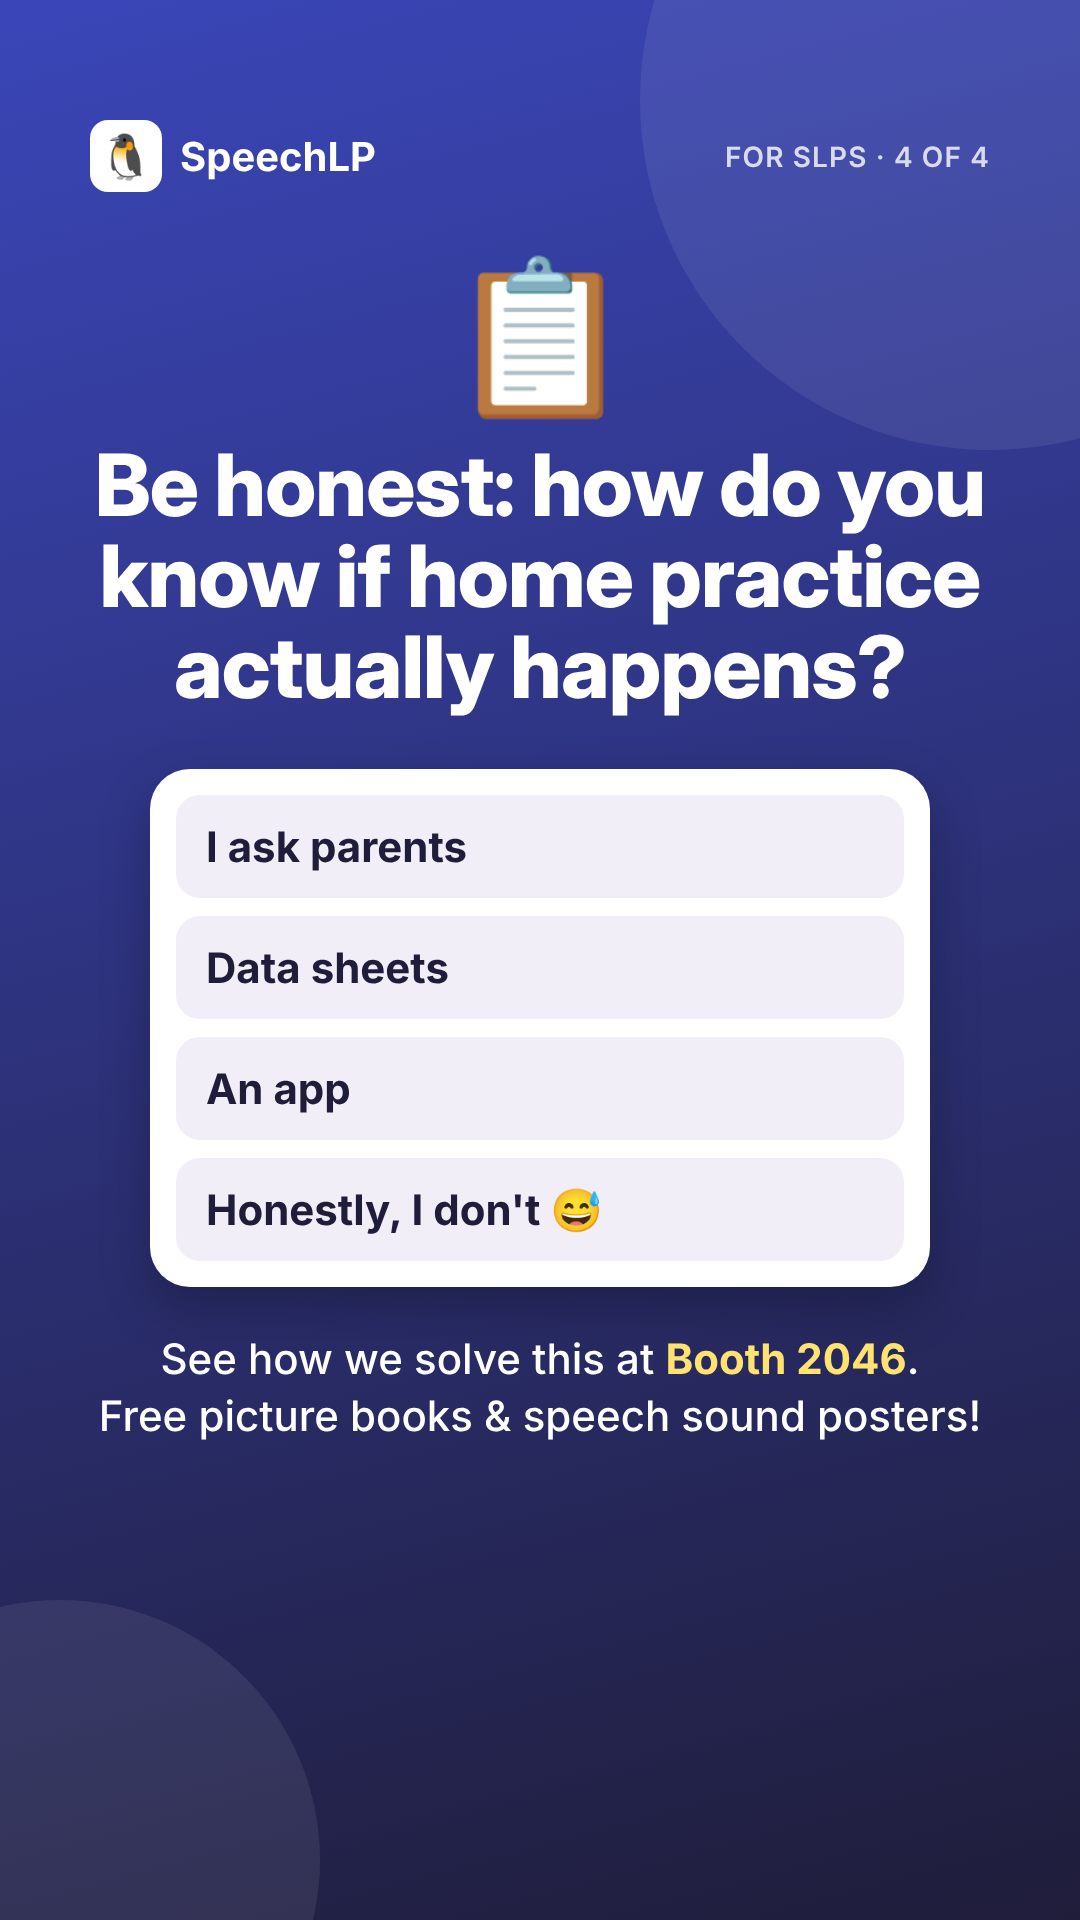
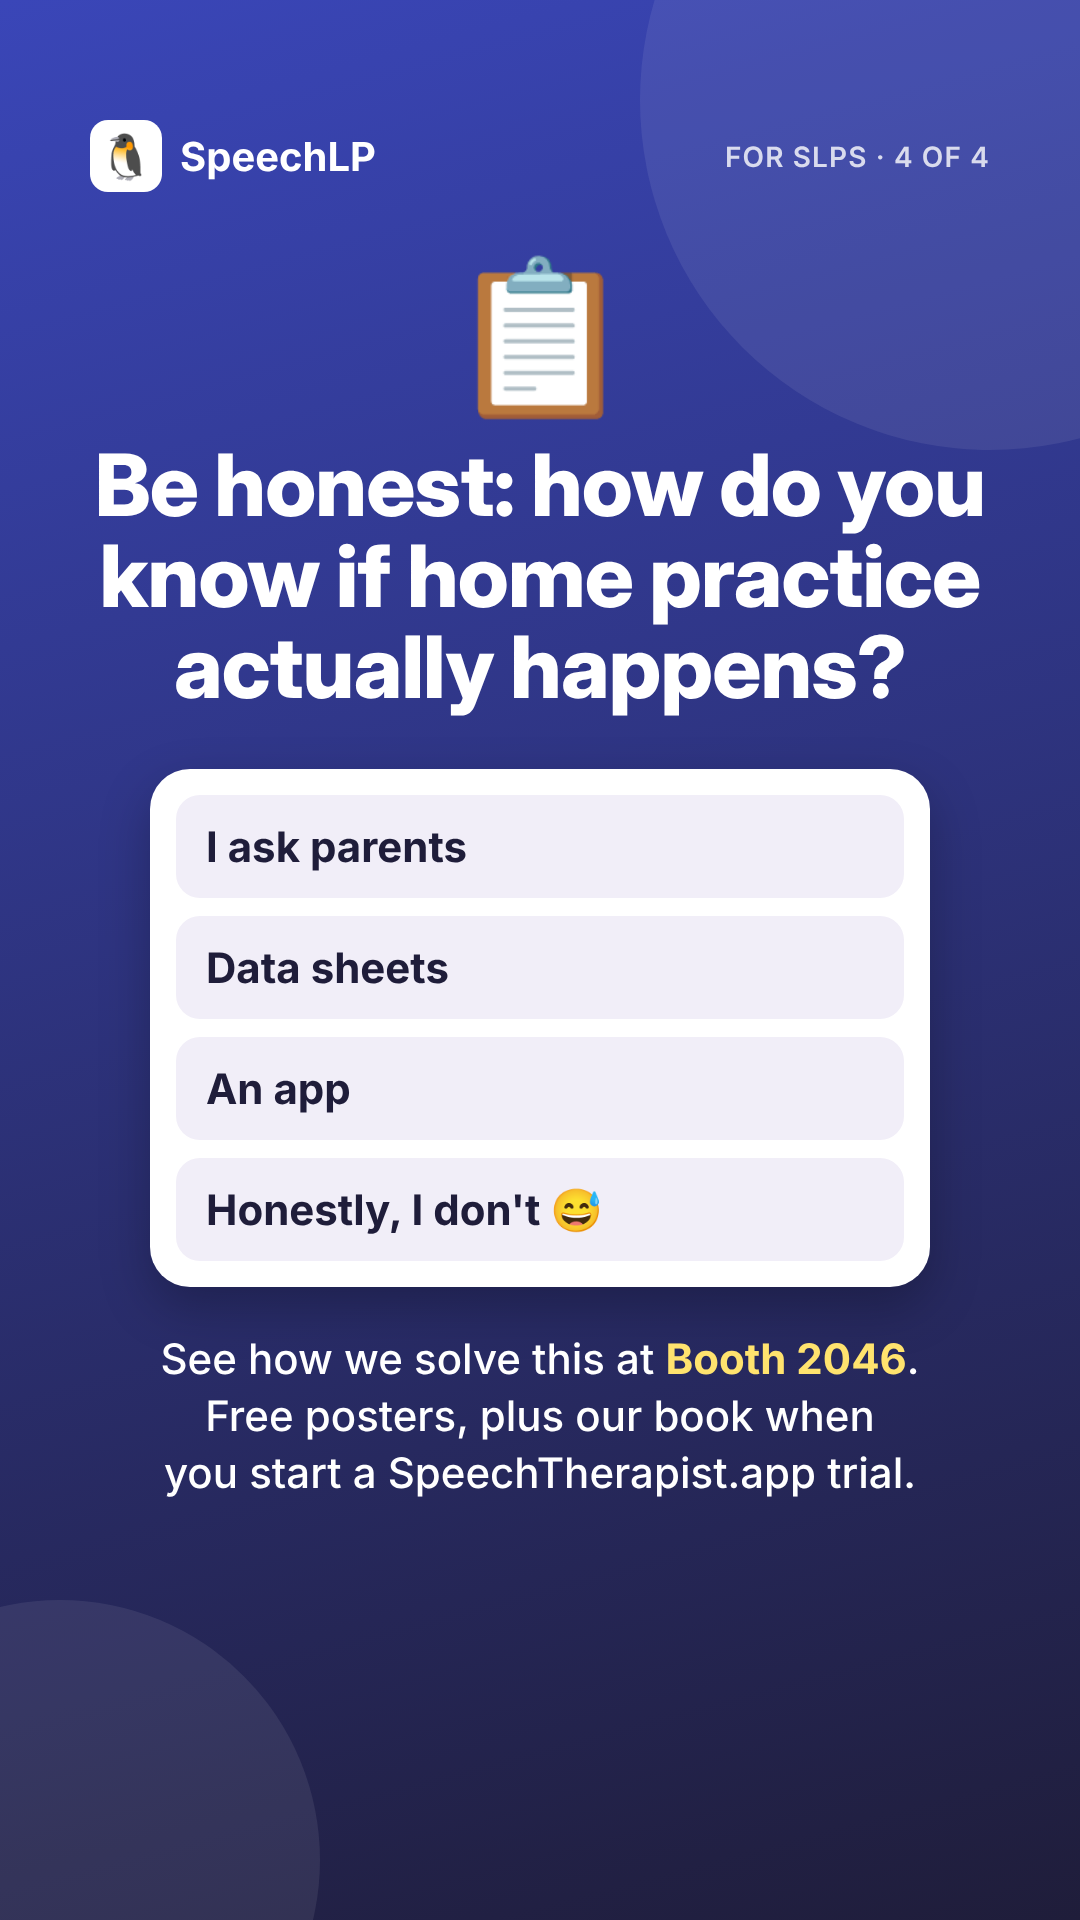
Update SLP story 4 giveaway wording
Claude-Session: https://claude.ai/code/session_01TCt8WeR6nwsBwhxZ7QTUUg

Changed region(s): [[0.0917, 0.7188, 0.9167, 0.7812]]

diff --git a/instagram/stories.html b/instagram/stories.html
@@ -37,4 +37,4 @@ h1 span{color:#ffe36e}
 .track{height:22px;border-radius:11px;background:#eee;position:relative}
 .fill{position:absolute;inset:0 30% 0 0;border-radius:11px;background:linear-gradient(90deg,#ffb36e,#e8554e)}
 .knob{position:absolute;left:62%;top:-44px;font-size:96px}
-</style></head><body><div class="story grad-a" id="slp-1"><div class="blob b1"></div><div class="blob b2"></div><div class="brand"><i>🐧</i>SpeechLP</div><div class="tag">For SLPs · 1 of 4</div><div class="emoji">🐧</div><h1>We're heading back to <span>ASHA!</span></h1><div class="sub">Indianapolis · Nov 19–21 · Booth 2046</div><div class="cd"><div class="ct">ASHA 2026 starts</div><div class="cn"><b>08</b>:<b>14</b>:<b>22</b>:<b>05</b></div><div class="cl">days · hrs · min · sec</div><div class="cdate">Thu, Nov 19</div></div><div class="poll2"><div>Yes! 🙋</div><div>Wish I were</div></div></div><div class="story grad-b" id="slp-2"><div class="blob b1"></div><div class="blob b2"></div><div class="brand"><i>🐧</i>SpeechLP</div><div class="tag">For SLPs · 2 of 4</div><div class="emoji">🌎</div><h1>What language does your caseload practice in at home?</h1><div class="sub">Help us decide what to build next.</div><div class="poll"><div class="opt">English only</div><div class="opt">Spanish</div><div class="opt">Another language</div><div class="opt">A mix</div></div><div class="qs"><div class="qh">Which language should SpeechLP add next?</div><div class="qi">Type something…</div></div></div><div class="story grad-c" id="slp-3"><div class="blob b1"></div><div class="blob b2"></div><div class="brand"><i>🐧</i>SpeechLP</div><div class="tag">For SLPs · 3 of 4</div><div class="emoji">📍</div><h1>Where are you joining us from?</h1><div class="sub">We're hearing from SLPs well beyond the US.</div><div class="poll"><div class="opt">🇺🇸 US</div><div class="opt">🇨🇦 Canada</div><div class="opt">🇦🇺 Australia</div><div class="opt">🌍 Elsewhere</div></div></div><div class="story grad-d" id="slp-4"><div class="blob b1"></div><div class="blob b2"></div><div class="brand"><i>🐧</i>SpeechLP</div><div class="tag">For SLPs · 4 of 4</div><div class="emoji">📋</div><h1>Be honest: how do you know if home practice actually happens?</h1><div style="height:30px"></div><div class="poll"><div class="opt">I ask parents</div><div class="opt">Data sheets</div><div class="opt">An app</div><div class="opt">Honestly, I don't 😅</div></div><div class="foot">See how we solve this at <b>Booth 2046</b>.<br>Free picture books &amp; speech sound posters!</div></div><div class="story grad-e" id="parent-1"><div class="blob b1"></div><div class="blob b2"></div><div class="brand"><i>🐧</i>SpeechLP</div><div class="tag">For parents · 1 of 4</div><div class="emoji">💜</div><h1>What language do you speak with your kids at home?</h1><div class="sub">We're making SpeechLP for more families.</div><div class="poll"><div class="opt">English</div><div class="opt">Spanish</div><div class="opt">Another language</div><div class="opt">More than one!</div></div></div><div class="story grad-b" id="parent-2"><div class="blob b1"></div><div class="blob b2"></div><div class="brand"><i>🐧</i>SpeechLP</div><div class="tag">For parents · 2 of 4</div><div class="emoji">🗣</div><h1>Would your family use SpeechLP in another language?</h1><div class="sub">Tell us which one, and we'll let you know when it's ready.</div><div class="slider"><div class="sq">Slide to answer</div><div class="track"><div class="fill"></div><div class="knob">😍</div></div></div><div class="qs"><div class="qh">Which language? Where do you live?</div><div class="qi">Type something…</div></div></div><div class="story grad-a" id="parent-3"><div class="blob b1"></div><div class="blob b2"></div><div class="brand"><i>🐧</i>SpeechLP</div><div class="tag">For parents · 3 of 4</div><div class="emoji">🏠</div><h1>How often does your child practice speech at home?</h1><div class="sub">No judgment. Every family is different!</div><div class="poll"><div class="opt">Every day</div><div class="opt">A few times a week</div><div class="opt">Rarely</div><div class="opt">We're just starting</div></div></div><div class="story grad-c" id="parent-4"><div class="blob b1"></div><div class="blob b2"></div><div class="brand"><i>🐧</i>SpeechLP</div><div class="tag">For parents · 4 of 4</div><div class="emoji">🎮</div><h1>What makes home practice hardest?</h1><div style="height:30px"></div><div class="poll"><div class="opt">Getting them to sit</div><div class="opt">Not sure I'm doing it right</div><div class="opt">Finding the time</div><div class="opt">Knowing which words</div></div><div class="foot">Kids say the words out loud,<br>and the game responds. Free to try.</div><div class="link">🔗 app.speechlp.com</div></div></body></html>
+</style></head><body><div class="story grad-a" id="slp-1"><div class="blob b1"></div><div class="blob b2"></div><div class="brand"><i>🐧</i>SpeechLP</div><div class="tag">For SLPs · 1 of 4</div><div class="emoji">🐧</div><h1>We're heading back to <span>ASHA!</span></h1><div class="sub">Indianapolis · Nov 19–21 · Booth 2046</div><div class="cd"><div class="ct">ASHA 2026 starts</div><div class="cn"><b>08</b>:<b>14</b>:<b>22</b>:<b>05</b></div><div class="cl">days · hrs · min · sec</div><div class="cdate">Thu, Nov 19</div></div><div class="poll2"><div>Yes! 🙋</div><div>Wish I were</div></div></div><div class="story grad-b" id="slp-2"><div class="blob b1"></div><div class="blob b2"></div><div class="brand"><i>🐧</i>SpeechLP</div><div class="tag">For SLPs · 2 of 4</div><div class="emoji">🌎</div><h1>What language does your caseload practice in at home?</h1><div class="sub">Help us decide what to build next.</div><div class="poll"><div class="opt">English only</div><div class="opt">Spanish</div><div class="opt">Another language</div><div class="opt">A mix</div></div><div class="qs"><div class="qh">Which language should SpeechLP add next?</div><div class="qi">Type something…</div></div></div><div class="story grad-c" id="slp-3"><div class="blob b1"></div><div class="blob b2"></div><div class="brand"><i>🐧</i>SpeechLP</div><div class="tag">For SLPs · 3 of 4</div><div class="emoji">📍</div><h1>Where are you joining us from?</h1><div class="sub">We're hearing from SLPs well beyond the US.</div><div class="poll"><div class="opt">🇺🇸 US</div><div class="opt">🇨🇦 Canada</div><div class="opt">🇦🇺 Australia</div><div class="opt">🌍 Elsewhere</div></div></div><div class="story grad-d" id="slp-4"><div class="blob b1"></div><div class="blob b2"></div><div class="brand"><i>🐧</i>SpeechLP</div><div class="tag">For SLPs · 4 of 4</div><div class="emoji">📋</div><h1>Be honest: how do you know if home practice actually happens?</h1><div style="height:30px"></div><div class="poll"><div class="opt">I ask parents</div><div class="opt">Data sheets</div><div class="opt">An app</div><div class="opt">Honestly, I don't 😅</div></div><div class="foot">See how we solve this at <b>Booth 2046</b>.<br>Free posters, plus our book when<br>you start a SpeechTherapist.app trial.</div></div><div class="story grad-e" id="parent-1"><div class="blob b1"></div><div class="blob b2"></div><div class="brand"><i>🐧</i>SpeechLP</div><div class="tag">For parents · 1 of 4</div><div class="emoji">💜</div><h1>What language do you speak with your kids at home?</h1><div class="sub">We're making SpeechLP for more families.</div><div class="poll"><div class="opt">English</div><div class="opt">Spanish</div><div class="opt">Another language</div><div class="opt">More than one!</div></div></div><div class="story grad-b" id="parent-2"><div class="blob b1"></div><div class="blob b2"></div><div class="brand"><i>🐧</i>SpeechLP</div><div class="tag">For parents · 2 of 4</div><div class="emoji">🗣</div><h1>Would your family use SpeechLP in another language?</h1><div class="sub">Tell us which one, and we'll let you know when it's ready.</div><div class="slider"><div class="sq">Slide to answer</div><div class="track"><div class="fill"></div><div class="knob">😍</div></div></div><div class="qs"><div class="qh">Which language? Where do you live?</div><div class="qi">Type something…</div></div></div><div class="story grad-a" id="parent-3"><div class="blob b1"></div><div class="blob b2"></div><div class="brand"><i>🐧</i>SpeechLP</div><div class="tag">For parents · 3 of 4</div><div class="emoji">🏠</div><h1>How often does your child practice speech at home?</h1><div class="sub">No judgment. Every family is different!</div><div class="poll"><div class="opt">Every day</div><div class="opt">A few times a week</div><div class="opt">Rarely</div><div class="opt">We're just starting</div></div></div><div class="story grad-c" id="parent-4"><div class="blob b1"></div><div class="blob b2"></div><div class="brand"><i>🐧</i>SpeechLP</div><div class="tag">For parents · 4 of 4</div><div class="emoji">🎮</div><h1>What makes home practice hardest?</h1><div style="height:30px"></div><div class="poll"><div class="opt">Getting them to sit</div><div class="opt">Not sure I'm doing it right</div><div class="opt">Finding the time</div><div class="opt">Knowing which words</div></div><div class="foot">Kids say the words out loud,<br>and the game responds. Free to try.</div><div class="link">🔗 app.speechlp.com</div></div></body></html>

diff --git a/instagram/stories.py b/instagram/stories.py
@@ -27,7 +27,7 @@ S = [
  ("slp-4", "grad-d", "For SLPs · 4 of 4", "Be honest: how do you know if home practice actually happens?",
   "",
   poll(["I ask parents","Data sheets","An app","Honestly, I don't 😅"]) +
-  '<div class="foot">See how we solve this at <b>Booth 2046</b>.<br>Free picture books &amp; speech sound posters!</div>', "📋", ""),
+  '<div class="foot">See how we solve this at <b>Booth 2046</b>.<br>Free posters, plus our book when<br>you start a SpeechTherapist.app trial.</div>', "📋", ""),
  # ---------- Parent set ----------
  ("parent-1", "grad-e", "For parents · 1 of 4", "What language do you speak with your kids at home?",
   "We're making SpeechLP for more families.",
